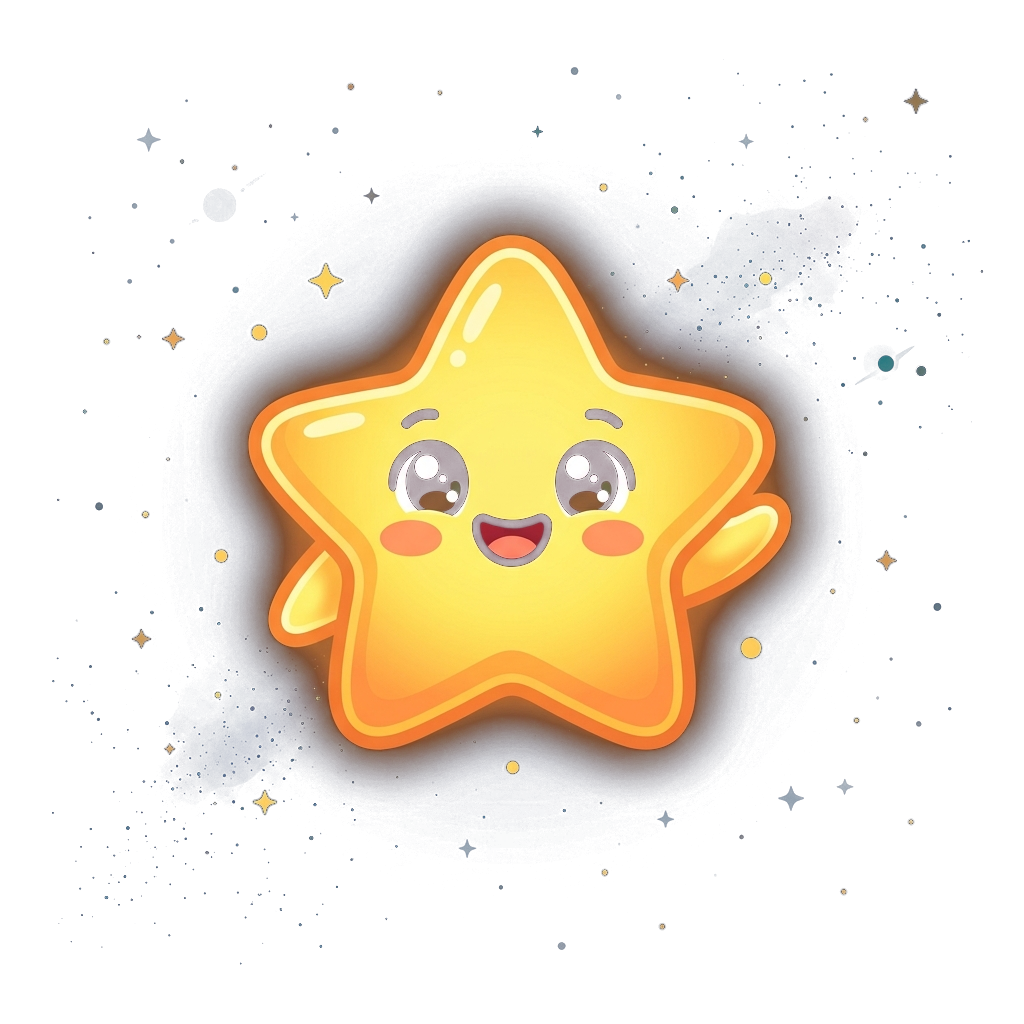
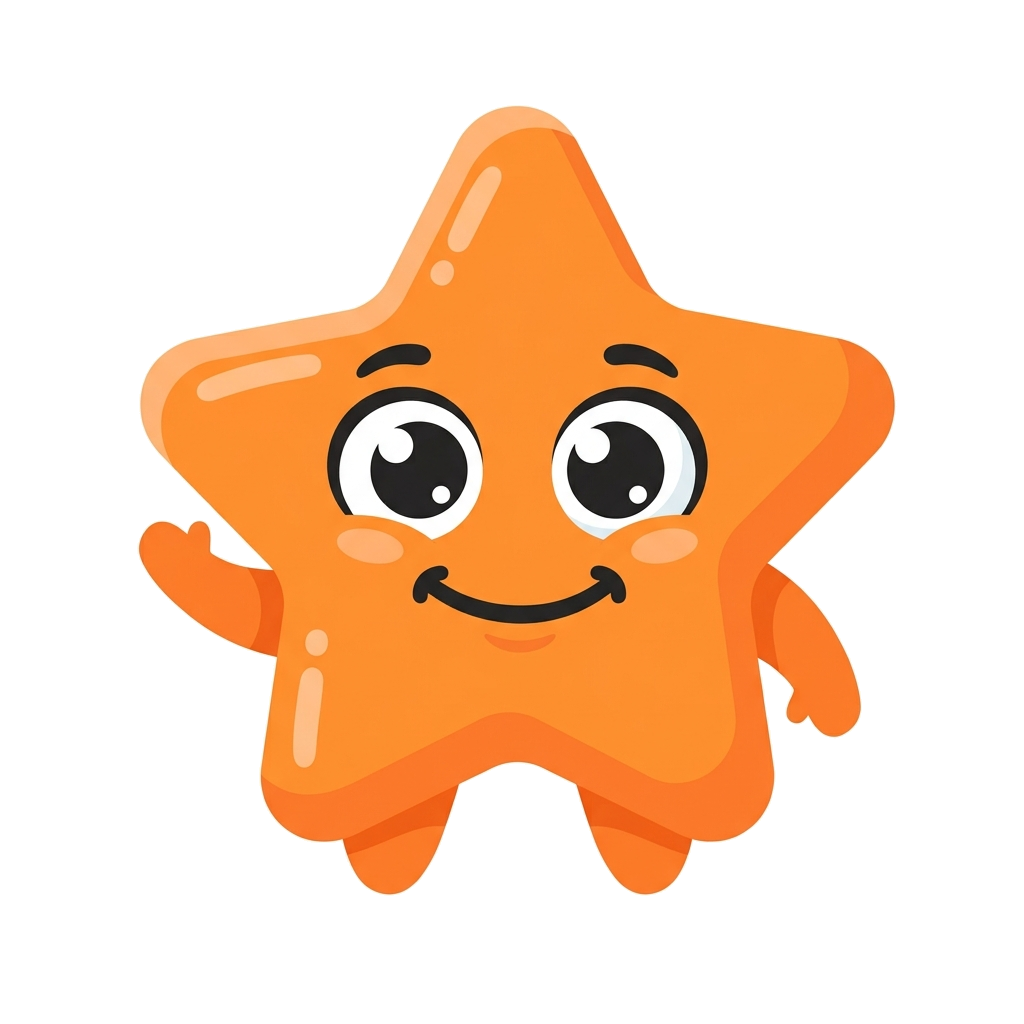
Update UI: Add Fit the star mascot, personalize welcome flow, and add settings modal

diff --git a/index.html b/index.html
@@ -110,11 +110,11 @@
                     <path id="progressPath" d="M 10,30 Q 80,10 200,20 T 390,10" fill="none" stroke="url(#progressGradient)" stroke-width="6" stroke-linecap="round" filter="url(#glow)" stroke-dasharray="400" stroke-dashoffset="400" />
                   </svg>
                   <div class="star-decorations">
-                    <img src="/star_mascot.png" class="tiny-star-img" style="left: 10%; top: 20%;" />
-                    <img src="/star_mascot.png" class="tiny-star-img" style="left: 30%; top: 60%;" />
-                    <img src="/star_mascot.png" class="tiny-star-img" style="left: 50%; top: 10%;" />
-                    <img src="/star_mascot.png" class="tiny-star-img" style="left: 70%; top: 80%;" />
-                    <img src="/star_mascot.png" class="tiny-star-img" style="left: 90%; top: 30%;" />
+                    <img src="/star_mascot.png?v=2" class="tiny-star-img" style="left: 10%; top: 20%;" />
+                    <img src="/star_mascot.png?v=2" class="tiny-star-img" style="left: 30%; top: 60%;" />
+                    <img src="/star_mascot.png?v=2" class="tiny-star-img" style="left: 50%; top: 10%;" />
+                    <img src="/star_mascot.png?v=2" class="tiny-star-img" style="left: 70%; top: 80%;" />
+                    <img src="/star_mascot.png?v=2" class="tiny-star-img" style="left: 90%; top: 30%;" />
                   </div>
                 </div>
               </div>
@@ -316,10 +316,10 @@
   <div id="namePromptModal" class="name-prompt-overlay hidden">
     <div class="name-prompt-card">
       <div class="name-prompt-content">
-        <img src="/star_mascot.png" class="modal-star" alt="Star Mascot" />
+        <img src="/star_mascot.png?v=2" class="modal-star" alt="Star Mascot" />
         <div class="name-prompt-form">
-          <h2>Let's start moving</h2>
-          <p>Choose a cosmic codename:</p>
+          <h2>Hi, I'm Fit!</h2>
+          <p>What's your name?</p>
           
           <div class="name-preset-options">
             <button class="btn btn-outline name-preset-btn">Nova</button>
@@ -341,10 +341,10 @@
   <div id="settingsModal" class="name-prompt-overlay hidden">
     <div class="name-prompt-card">
       <div class="name-prompt-content">
-        <img src="/star_mascot.png" class="modal-star" alt="Star Mascot" />
+        <img src="/star_mascot.png?v=2" class="modal-star" alt="Star Mascot" />
         <div class="name-prompt-form">
           <h2>Settings</h2>
-          <p>Update your codename or manage data:</p>
+          <p>Update your name:</p>
           
           <input type="text" id="settingsNameInput" placeholder="Enter new name..." maxlength="20" style="margin-bottom: 0.5rem;" />
           <button id="settingsUpdateNameBtn" class="btn btn-primary" style="margin-bottom: 1.5rem;">Update Name</button>
@@ -382,7 +382,7 @@
     </div>
     <div class="mascot-character">
       <!-- Star Mascot SVG -->
-      <img src="/star_mascot.png" class="mascot-img" alt="Star Mascot" />
+      <img src="/star_mascot.png?v=2" class="mascot-img" alt="Star Mascot" />
     </div>
     <div class="mascot-speech-bubble" id="mascotSpeechBubble">
       <span id="mascotGreetingText">Welcome back!</span>
